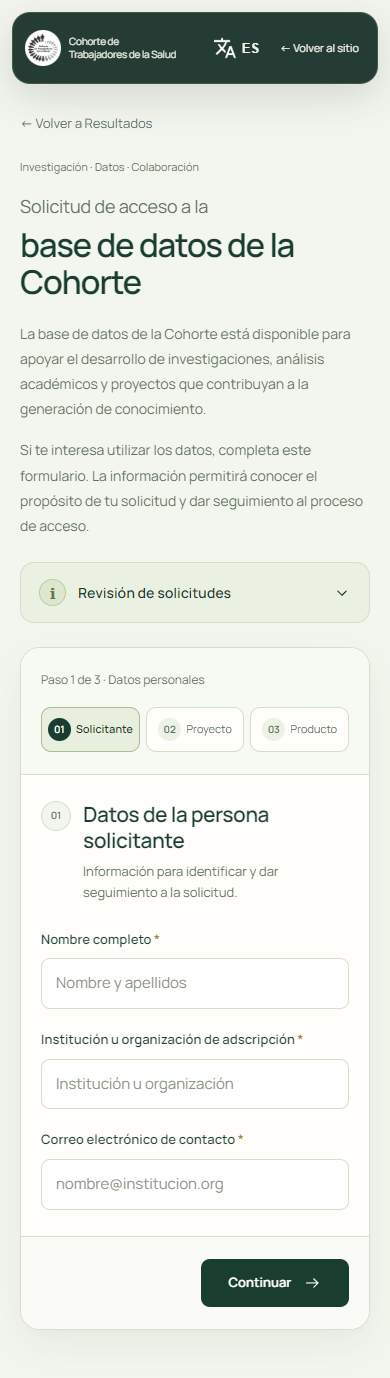
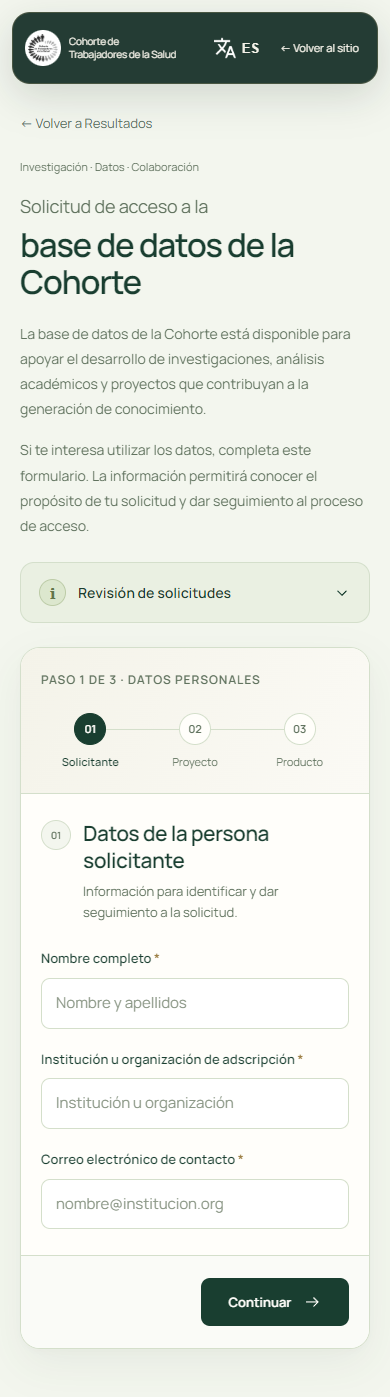
Restore connected circular steps in data request form

diff --git a/public/landing/data-request-design.css b/public/landing/data-request-design.css
@@ -17,13 +17,13 @@
 .data-request-shell .review-chevron{width:18px;height:18px;flex:0 0 18px;margin-left:auto;rotate:0deg;transition:rotate 240ms ease}.data-request-shell .data-review-note[open] .review-chevron{rotate:180deg}
 .data-request-shell .data-review-body{padding:0 22px 22px}.data-request-shell .data-review-body p{font-size:13px;line-height:1.85;color:var(--request-muted)}
 .data-request-shell .data-request-form{grid-column:2;grid-row:2/4;width:100%;min-width:0;border:1px solid var(--request-line);border-radius:20px;background:var(--request-white);box-shadow:0 16px 42px #1e422710,0 2px 6px #1e422705;animation:request-arrive 750ms ease 70ms both}
-.data-request-shell .data-form-progress{padding:26px 30px;background:#f7f9f3;border-bottom:1px solid var(--request-line)}
-.data-request-shell .data-progress-current{margin:0 0 16px;font-size:12px;letter-spacing:0;text-transform:none;color:var(--request-muted);font-weight:400}
-.data-request-shell .data-progress-list{gap:10px}.data-request-shell .data-progress-list::before{content:none}
-.data-request-shell .data-progress-list li{display:flex;gap:8px;align-items:center;justify-content:center;padding:10px 8px;border:1px solid var(--request-line);border-radius:10px;background:var(--request-white);font-size:12px;min-width:0;color:var(--request-muted);transition:border-color 250ms ease,background-color 250ms ease}
-.data-request-shell .data-progress-list li>span:first-child{width:26px;height:26px;flex:0 0 26px;border:none;background:#edf2e6;font:600 10px var(--request-font);color:var(--request-muted);transform:none}
-.data-request-shell .data-progress-list li[aria-current=step]{background:var(--request-sage);border-color:#a8bd91;color:var(--request-ink)}
-.data-request-shell .data-progress-list li[aria-current=step]>span:first-child{background:var(--request-ink);color:var(--request-white)}
+.data-request-shell .data-form-progress{padding:26px 30px;background:linear-gradient(115deg,#f4f3e9,#fbfaf5);border-bottom:1px solid var(--request-line)}
+.data-request-shell .data-progress-current{margin:0 0 22px;font-size:12px;letter-spacing:.08em;text-transform:uppercase;color:var(--request-muted);font-weight:600}
+.data-request-shell .data-progress-list{gap:12px}.data-request-shell .data-progress-list::before{content:'';position:absolute;top:19px;left:9%;right:9%;height:1px;background:var(--request-line)}
+.data-request-shell .data-progress-list li{display:grid;gap:10px;justify-items:center;align-content:start;padding:0;border:0;border-radius:0;background:transparent;font-size:12px;min-width:0;color:var(--request-muted)}
+.data-request-shell .data-progress-list li>span:first-child{width:38px;height:38px;border:1px solid var(--request-line);background:var(--request-white);font:600 11px var(--request-font);color:var(--request-muted);transform:none}
+.data-request-shell .data-progress-list li[aria-current=step]{background:transparent;color:var(--request-ink);font-weight:600}
+.data-request-shell .data-progress-list li[aria-current=step]>span:first-child{background:var(--request-ink);border-color:var(--request-ink);color:var(--request-white)}
 .data-request-shell .data-progress-list li.is-complete>span:first-child{background:#6b885a;color:var(--request-white)}
 .data-request-shell .data-form-section{padding:30px;border-bottom:1px solid var(--request-line)}
 .data-request-shell .data-form-heading{gap:14px;align-items:center;margin-bottom:26px}.data-request-shell .data-form-heading>span{border-radius:50%;height:34px;flex-basis:34px;border:1px solid var(--request-line);background:var(--request-paper);color:var(--request-muted);font-size:11px}
@@ -49,5 +49,5 @@
 .data-request-shell :focus-visible{outline:3px solid #9d874e;outline-offset:4px}
 @keyframes request-arrive{from{opacity:0;translate:0 12px}to{opacity:1;translate:0 0}}
 @media(max-width:1000px){.data-request-shell .data-request-wrap{grid-template-columns:minmax(0,1fr);gap:24px;max-width:740px}.data-request-shell .data-request-intro{grid-column:1;grid-row:2}.data-request-shell .data-review-note{grid-column:1;grid-row:3}.data-request-shell .data-request-form{grid-column:1;grid-row:4}.data-request-shell .data-request-intro p{max-width:none}.data-request-shell .data-request-intro h1{max-width:24ch}.data-request-shell .data-request-intro h1 .data-title-prefix{font-size:18px}}
-@media(max-width:600px){.data-request-shell .floating-header{top:12px;width:calc(100% - 24px);padding:10px 12px;height:72px;gap:6px;border-radius:18px}.data-request-shell .floating-header .brand{gap:8px}.data-request-shell .floating-header .brand img{width:36px;height:36px}.data-request-shell .floating-header .brand span{font-size:10px;max-width:130px}.data-request-shell .site-return{font-size:11px;padding:8px 6px;border:0}.data-request-shell .data-request-page{padding:112px 20px 48px}.data-request-shell .data-request-wrap{gap:24px}.data-request-shell .data-request-intro h1{font-size:33px;margin-bottom:20px}.data-request-shell .data-request-intro .eyebrow{font-size:11px;margin-bottom:16px}.data-request-shell .data-request-intro p{font-size:14px;line-height:1.8}.data-request-shell .data-form-progress{padding:22px 20px}.data-request-shell .data-progress-list{gap:6px}.data-request-shell .data-progress-list li{padding:10px 6px;font-size:11px;gap:5px}.data-request-shell .data-progress-list li>span:first-child{width:23px;height:23px;flex-basis:23px}.data-request-shell .data-form-section{padding:26px 20px}.data-request-shell .data-form-heading{gap:12px;align-items:start}.data-request-shell .data-form-heading h2{font-size:21px}.data-request-shell .data-form-heading>span{flex-basis:30px;height:30px;font-size:10px}.data-request-shell .data-form-grid,.data-request-shell .data-product-grid{grid-template-columns:minmax(0,1fr)}.data-request-shell .data-form-footer{padding:22px 20px}.data-request-shell .data-review-note summary{padding:16px 18px;font-size:14px}.data-request-shell .data-step-actions{display:grid;grid-template-columns:repeat(2,minmax(0,1fr));width:100%}.data-request-shell .data-step-actions .data-step-next{grid-column:2}.data-request-shell .data-step-actions .data-submit{grid-column:2}.data-request-shell .data-step-actions .button{padding-inline:12px;font-size:13px}.data-request-shell .data-step-back{font-size:13px}.data-request-shell .data-form-grid{gap:20px}}
-@media(max-width:380px){.data-request-shell .floating-header .brand span{display:none}.data-request-shell .data-progress-list li{flex-direction:column;gap:6px}}
+@media(max-width:600px){.data-request-shell .floating-header{top:12px;width:calc(100% - 24px);padding:10px 12px;height:72px;gap:6px;border-radius:18px}.data-request-shell .floating-header .brand{gap:8px}.data-request-shell .floating-header .brand img{width:36px;height:36px}.data-request-shell .floating-header .brand span{font-size:10px;max-width:130px}.data-request-shell .site-return{font-size:11px;padding:8px 6px;border:0}.data-request-shell .data-request-page{padding:112px 20px 48px}.data-request-shell .data-request-wrap{gap:24px}.data-request-shell .data-request-intro h1{font-size:33px;margin-bottom:20px}.data-request-shell .data-request-intro .eyebrow{font-size:11px;margin-bottom:16px}.data-request-shell .data-request-intro p{font-size:14px;line-height:1.8}.data-request-shell .data-form-progress{padding:22px 20px}.data-request-shell .data-progress-list{gap:6px}.data-request-shell .data-progress-list::before{top:16px;left:12%;right:12%}.data-request-shell .data-progress-list li{font-size:11px;gap:8px}.data-request-shell .data-progress-list li>span:first-child{width:32px;height:32px}.data-request-shell .data-form-section{padding:26px 20px}.data-request-shell .data-form-heading{gap:12px;align-items:start}.data-request-shell .data-form-heading h2{font-size:21px}.data-request-shell .data-form-heading>span{flex-basis:30px;height:30px;font-size:10px}.data-request-shell .data-form-grid,.data-request-shell .data-product-grid{grid-template-columns:minmax(0,1fr)}.data-request-shell .data-form-footer{padding:22px 20px}.data-request-shell .data-review-note summary{padding:16px 18px;font-size:14px}.data-request-shell .data-step-actions{display:grid;grid-template-columns:repeat(2,minmax(0,1fr));width:100%}.data-request-shell .data-step-actions .data-step-next{grid-column:2}.data-request-shell .data-step-actions .data-submit{grid-column:2}.data-request-shell .data-step-actions .button{padding-inline:12px;font-size:13px}.data-request-shell .data-step-back{font-size:13px}.data-request-shell .data-form-grid{gap:20px}}
+@media(max-width:380px){.data-request-shell .floating-header .brand span{display:none}}

diff --git a/public/landing/solicitud-datos.html b/public/landing/solicitud-datos.html
@@ -7,7 +7,7 @@
   <meta name="description" content="Solicita acceso a la base de datos de la Cohorte de Trabajadores de la Salud para investigación, análisis académico y proyectos de conocimiento.">
   <link rel="stylesheet" href="theme.css?v=67">
   <link rel="stylesheet" href="viewport.css?v=64">
-  <link rel="stylesheet" href="data-request-design.css?v=1">
+  <link rel="stylesheet" href="data-request-design.css?v=2">
   <script defer src="i18n.js?v=74"></script>
   <script defer src="solicitud-datos.js?v=2"></script>
   <script defer src="data-request-presentation.js?v=1"></script>
